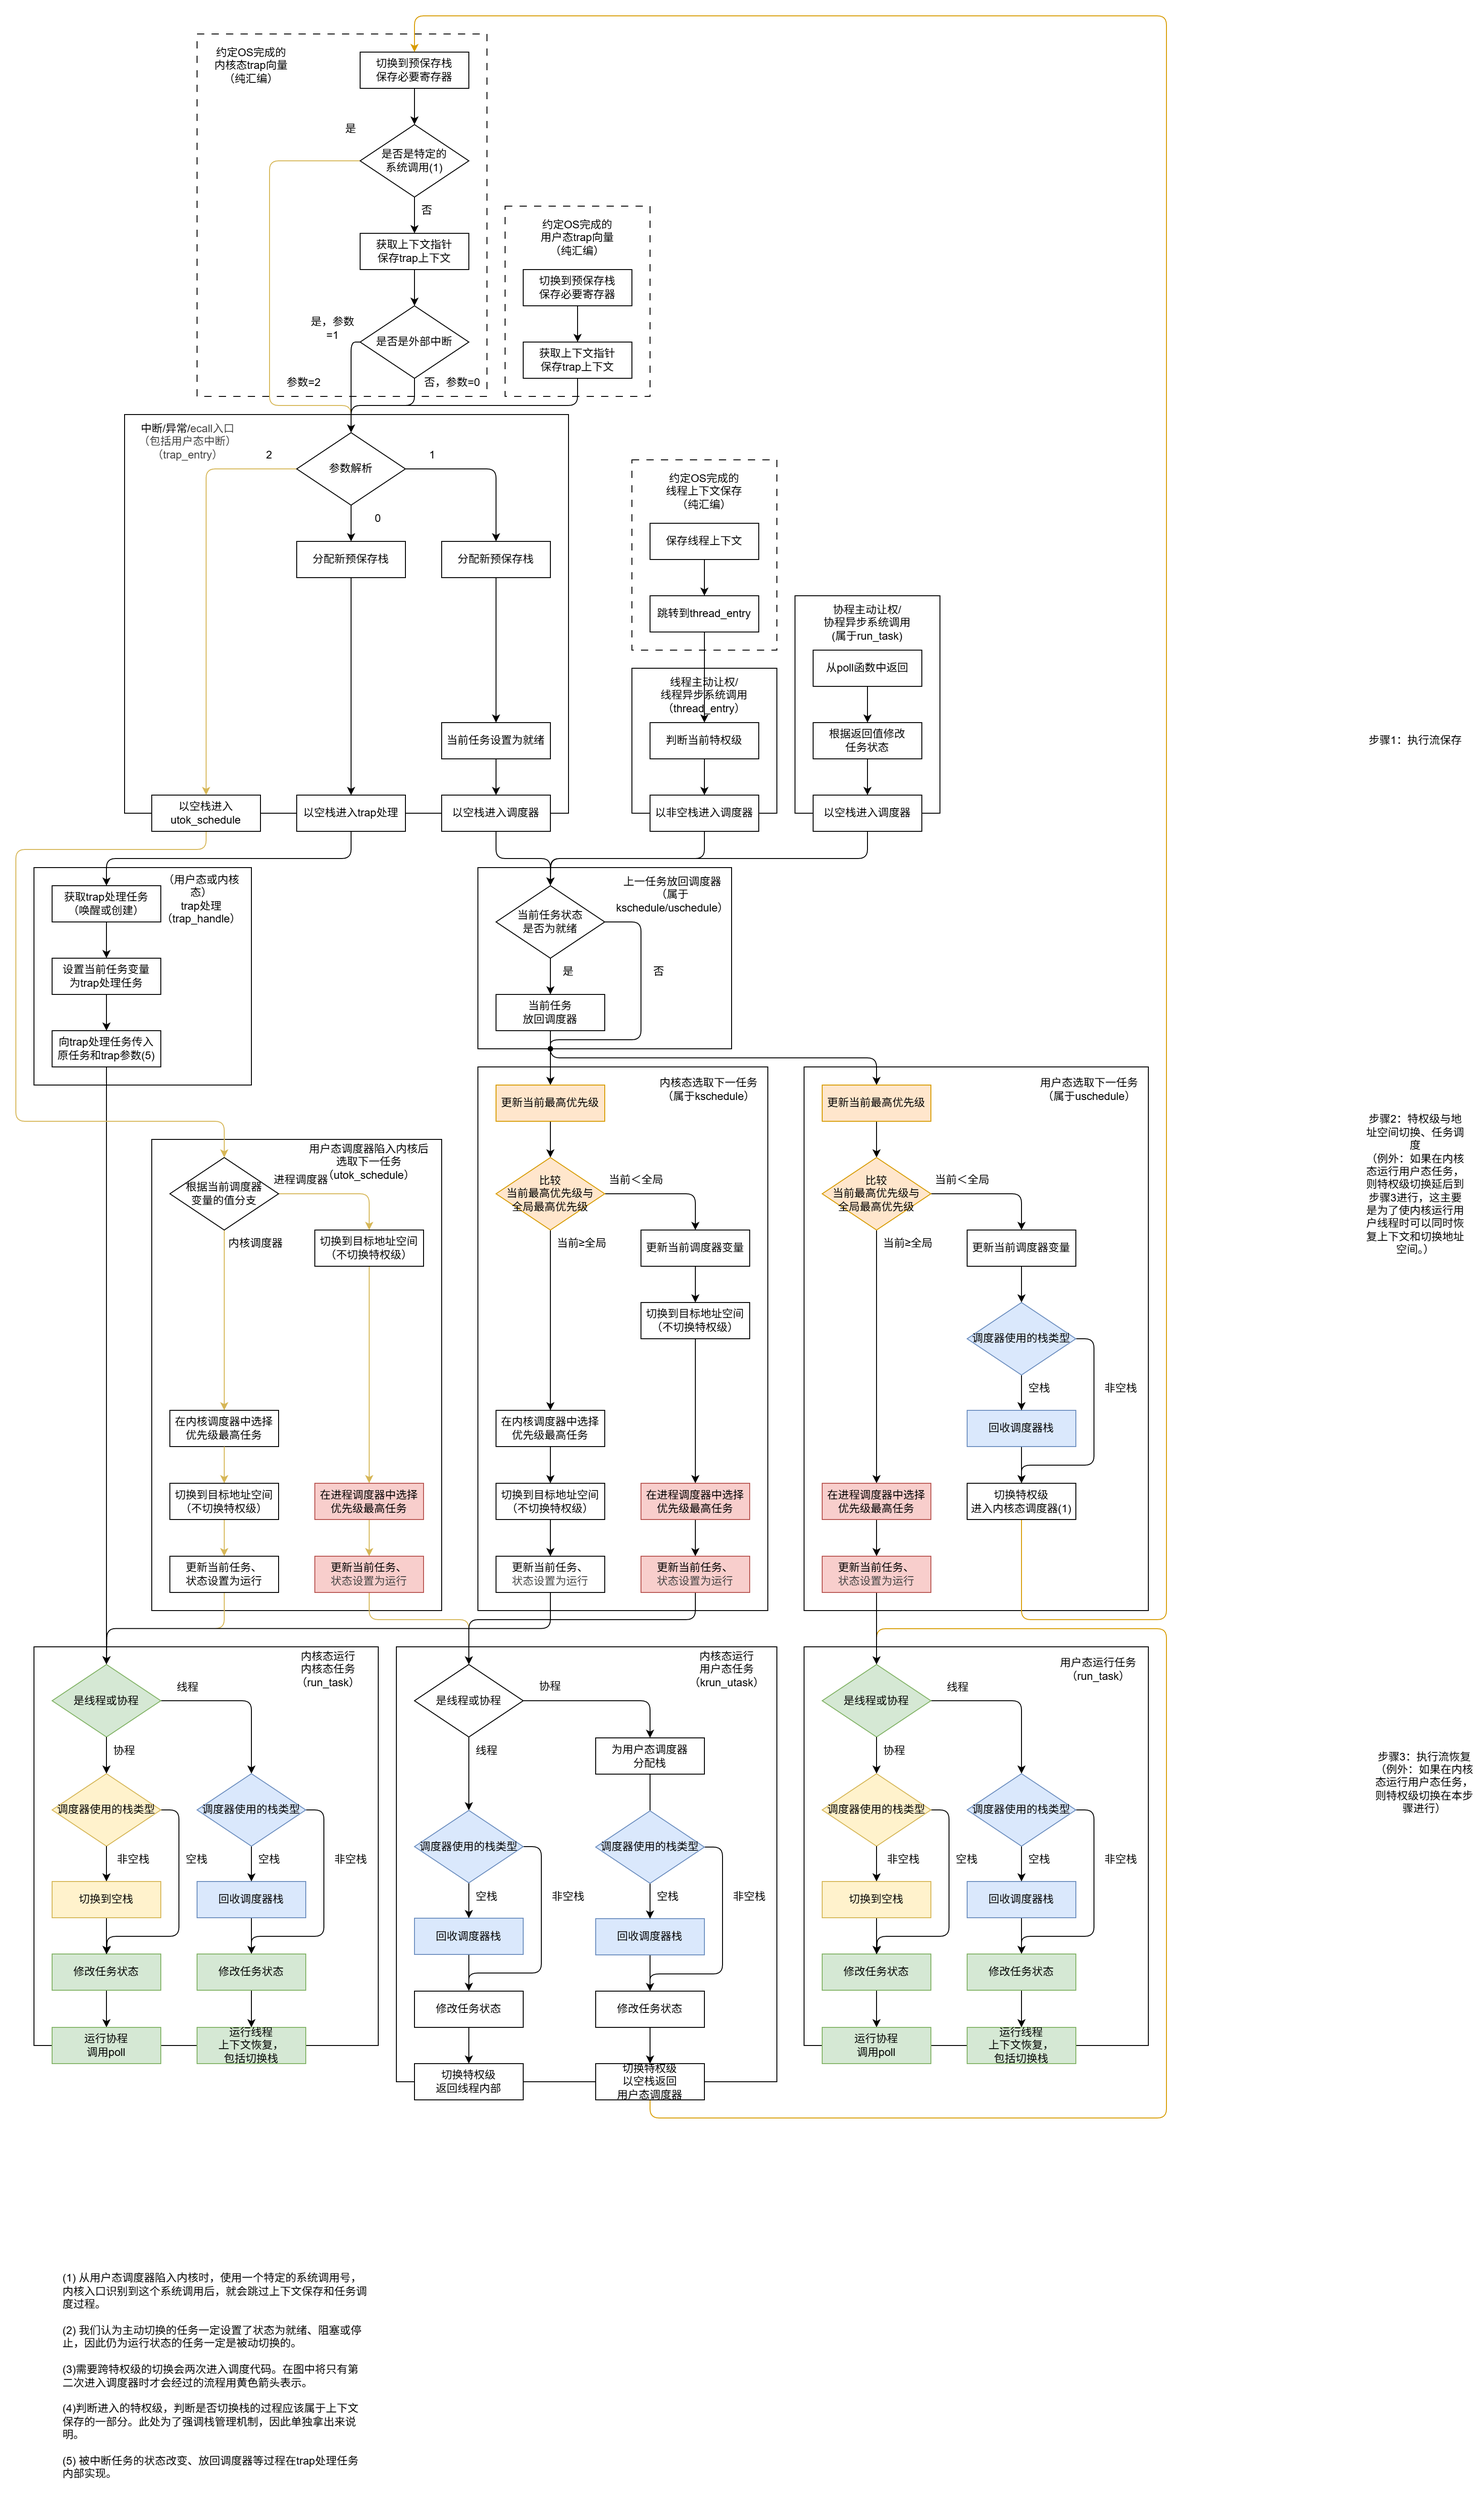
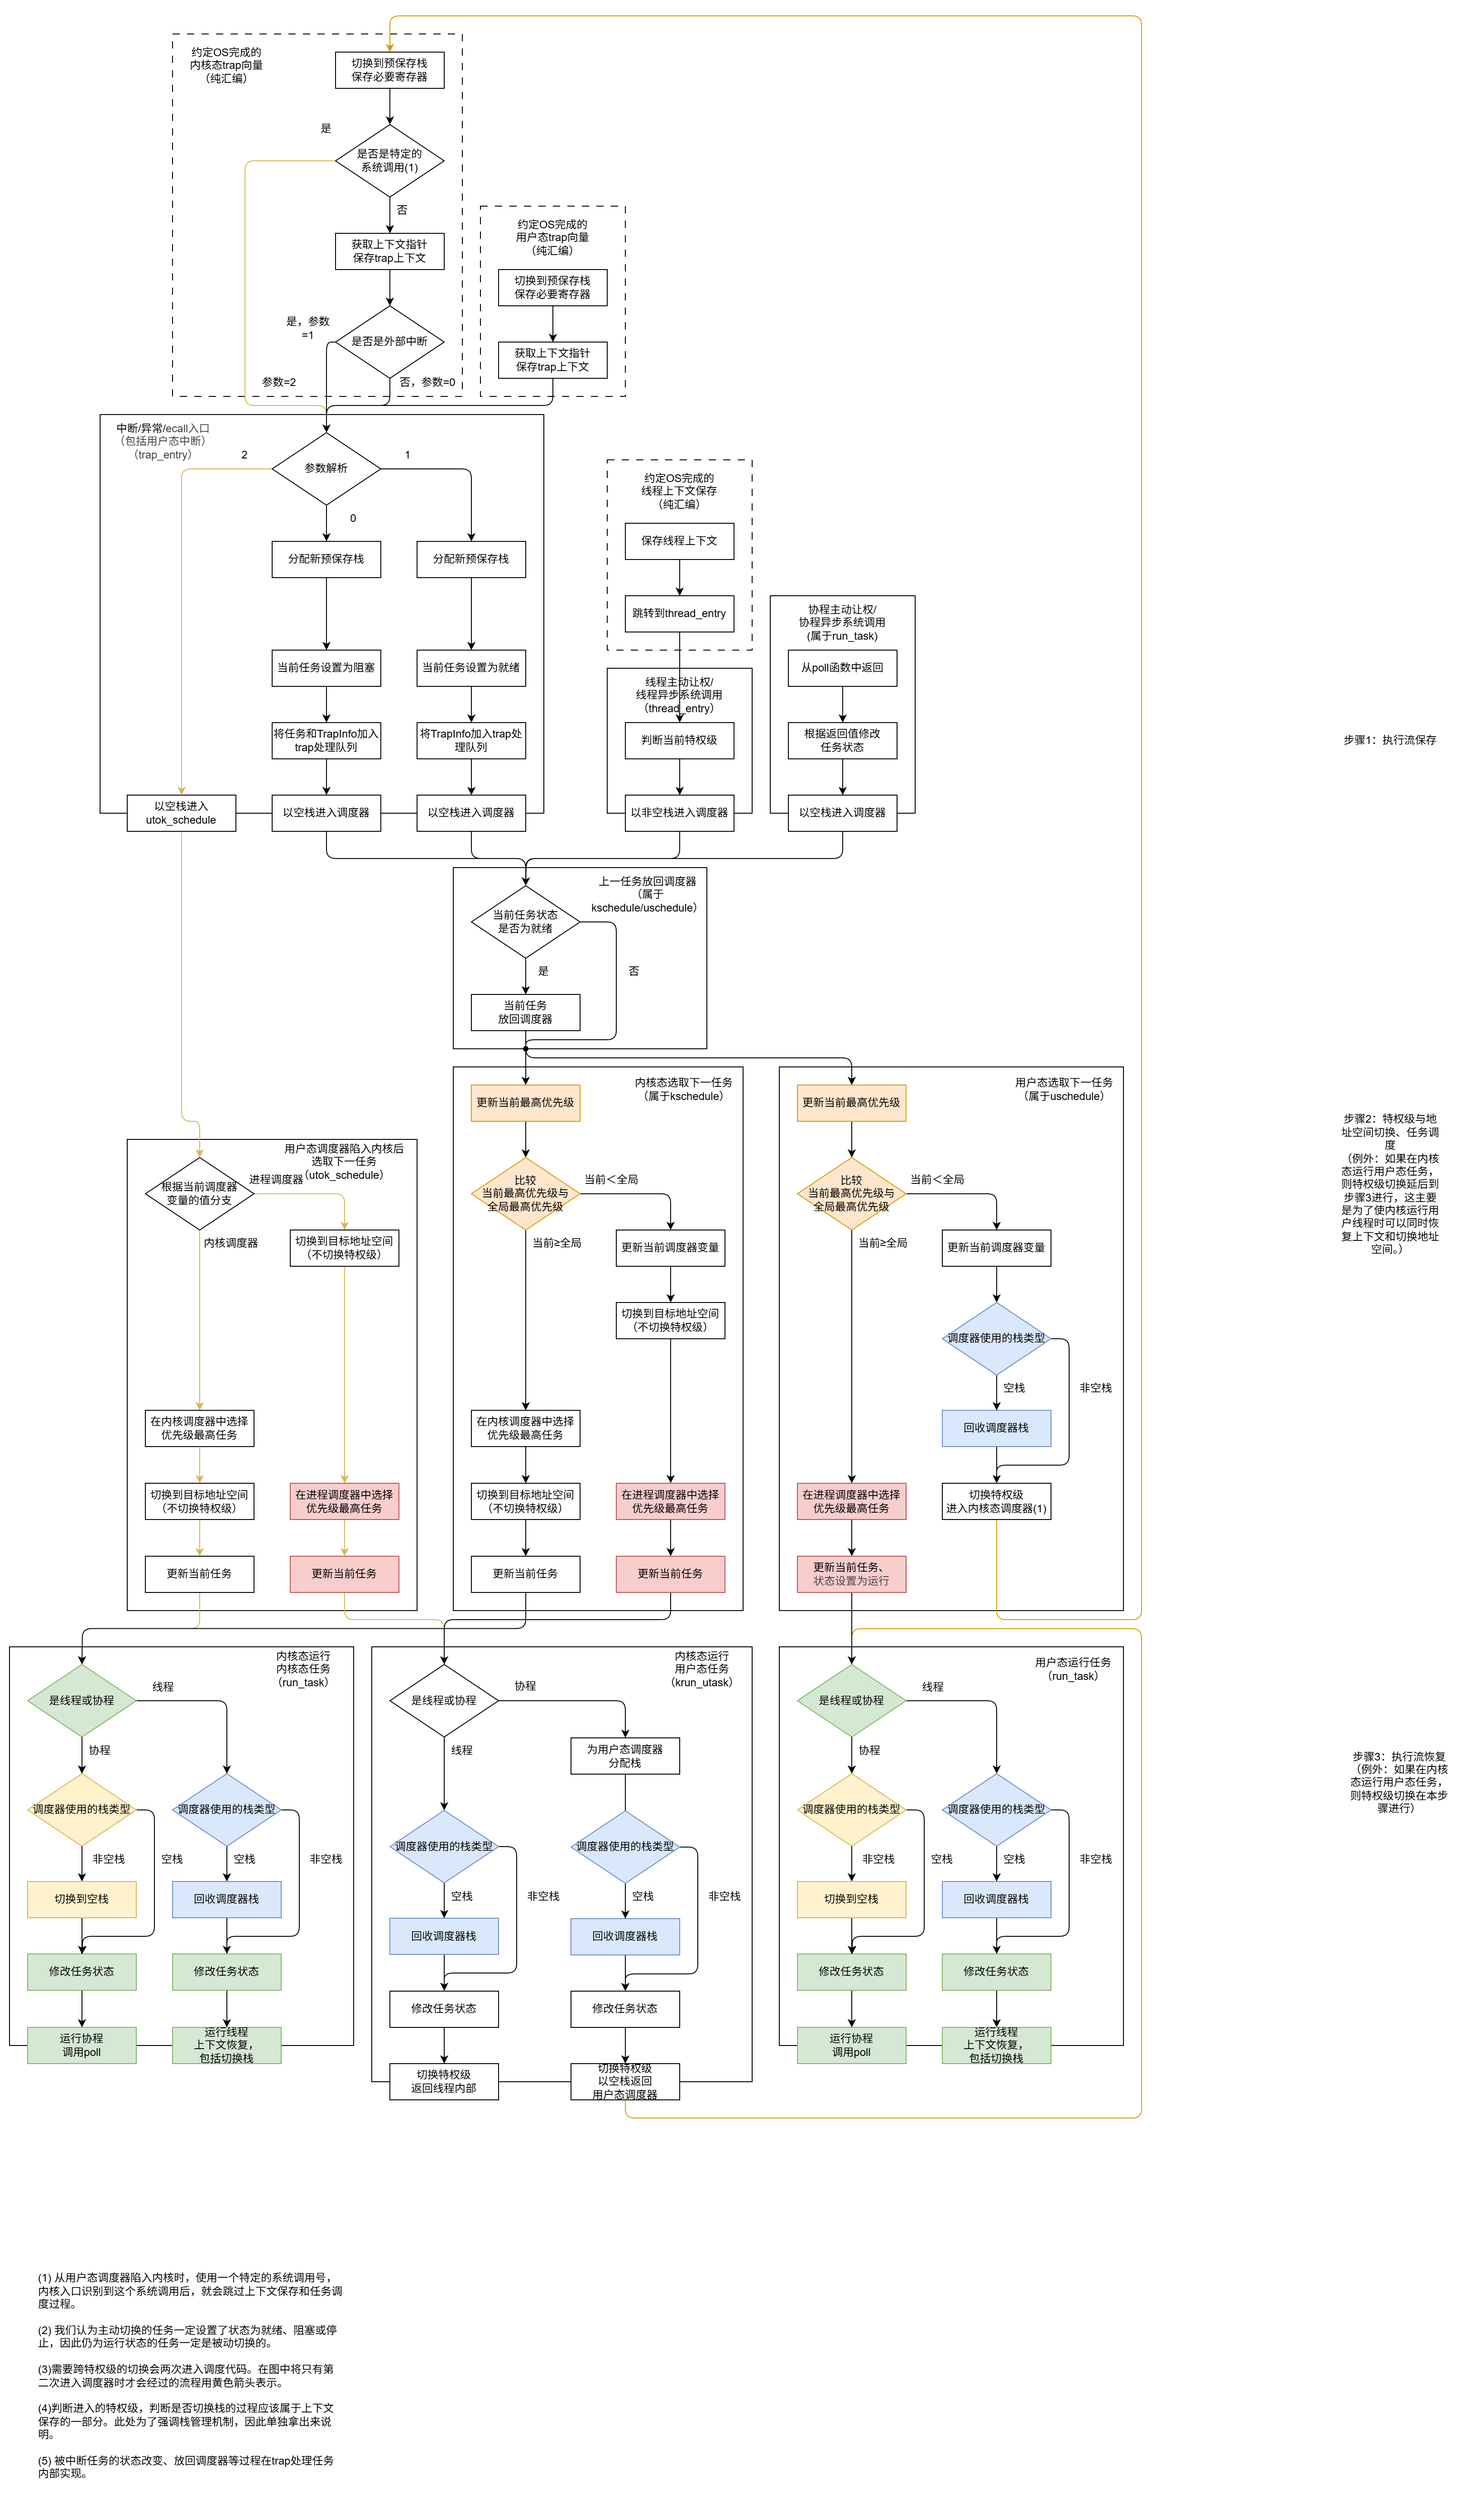
trap处理实现为事件源

diff --git a/26.6.1~26.6.7/trap处理实现为事件源.md b/26.6.1~26.6.7/trap处理实现为事件源.md
@@ -1,0 +1,38 @@
+# trap处理实现为事件源
+
+对调度器的trap处理流程进行了修改，现在不止是外部中断，而是所有trap都会将trap信息放入trap处理队列后，进入调度器了。
+
+（见修改后的流程图）
+
+这样修改的好处在于进一步统一了trap优先级和任务优先级，避免优先级反转的情况。
+
+## trap信息
+
+与trap直接相关的信息（通常为trap相关的几个寄存器的取值）。实现为`TrapInfo` trait，由OS提供实现。
+
+OS实现的接口：
+
+- `TrapInfo::from_task`：从被trap的任务上下文中获取trap信息。
+- `TrapInfo::handle`：处理该trap。
+
+处理trap所需的信息除了`TrapInfo`以外，还包括（可选的）整个任务上下文（用任务指针代表）。处理与被trap任务相关的trap（系统调用、异常）时，任务指针为`Some`。处理与被trap任务无关的trap（中断）时，任务指针为`None`。无论是`TrapInfo::handle`的参数，还是trap队列的元素，均包含了`TrapInfo`和`Option<*const ()>`（任务指针）两项。
+
+## trap队列
+
+per-cpu实现，每个CPU上包含一条存储`(TrapInfo, Option<*const ()>)`的队列和一个trap处理任务。
+
+该队列实现为事件源。当当前核心选取下一任务时，会从包括trap队列和就绪队列的多条事件源中选择优先级最高的任务并运行。作为事件源，trap队列提供的任务即为trap处理任务。
+
+## trap处理任务
+
+定义了trap处理函数`trap_handler`，作为trap处理任务中运行的函数。
+
+OS需实现`TrapInfo::new_handler`接口，以`trap_handler`为运行的函数创建一个任务，并将其指针返回。之后由调度器管理该任务。
+
+## 新的trap处理流程
+
+进入trap_entry后，分配预保存栈，之后根据trap是否与被trap任务相关，设置被trap任务的状态为阻塞或就绪。之后，根据任务创建`TrapInfo`，将`TrapInfo`和任务（相关的情况）或仅`TrapInfo`（无关的情况）加入trap队列。
+
+之后进入调度器，由调度器选择最高优先级的任务（通常为trap处理任务）并运行。
+
+在trap处理任务中，调用`TrapInfo::handle`处理trap。每处理完一个trap，如果有任务与该trap关联，则唤醒该任务。

diff --git a/26.6.1~26.6.7/调度器的问题.md b/26.6.1~26.6.7/调度器的问题.md
@@ -1,0 +1,4 @@
+# 调度器的问题
+
+1. 从线程进入时，调度器运行在线程栈上，直到执行下一个任务。如果调度器运行的同时线程被其它核心运行，则会访问同一个栈，产生同步问题。
+2. trap处理任务会从队列中取出不同的trap处理，是否涉及到地址空间切换的问题？
